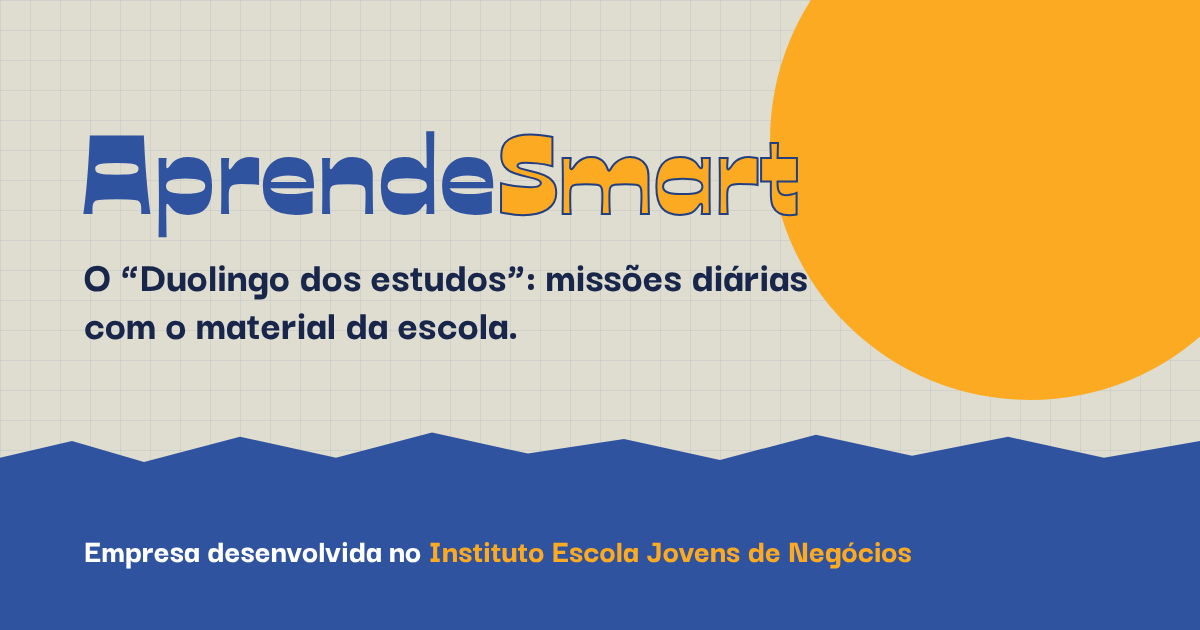
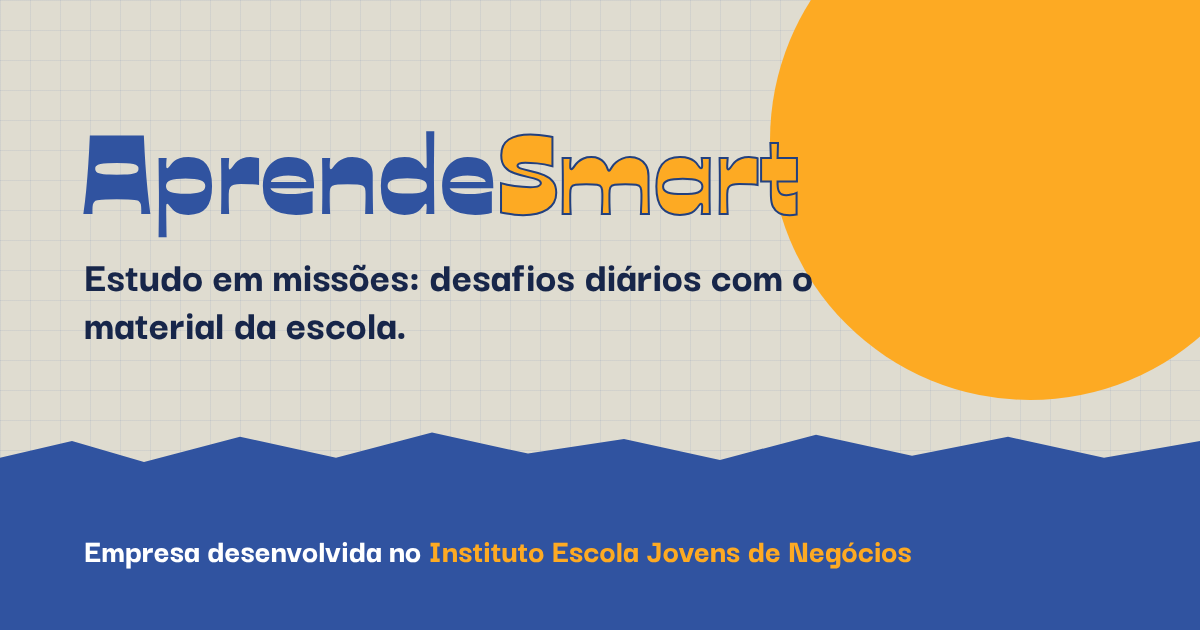
Remove Thomaz da equipe e troca referências ao Duolingo por conceito próprio
- 'Duolingo dos estudos' vira 'Estudo em missões' em textos, títulos e SEO
- 'ofensiva' vira 'sequência de dias'
- Seção 'Por que gamificar' passa a usar só evidência científica
- Equipe com Ana, Andryel Moura e Kaike

Claude-Session: https://claude.ai/code/session_01BquveXPgNbabZaiPgNXpNi

Changed region(s): [[0.0617, 0.4222, 0.6783, 0.5429]]

diff --git a/plataforma.html b/plataforma.html
@@ -4,7 +4,7 @@
   <meta charset="utf-8">
   <meta name="viewport" content="width=device-width, initial-scale=1">
   <title>Plataforma | AprendeSmart — missões diárias, gamificação e acompanhamento</title>
-  <meta name="description" content="O “Duolingo dos estudos”: missões diárias com o material da escola, ofensiva, XP, revisão programada e relatório para a família. Planos a partir de R$ 19,90/mês.">
+  <meta name="description" content="Estudo em missões: desafios diários com o material da escola, sequência, XP, revisão programada e relatório para a família. Planos a partir de R$ 19,90/mês.">
   <meta name="keywords" content="AprendeSmart, rotina de estudos, estudo gamificado, gamificação, missões diárias, organização de estudos, método de estudo, ensino médio, acompanhamento semanal, revisão, estudo ativo, Escola Jovens de Negócios">
   <meta name="author" content="AprendeSmart">
   <meta name="robots" content="index, follow, max-image-preview:large">
@@ -16,7 +16,7 @@
   <meta property="og:locale" content="pt_BR">
   <meta property="og:site_name" content="AprendeSmart">
   <meta property="og:title" content="Plataforma | AprendeSmart — missões diárias, gamificação e acompanhamento">
-  <meta property="og:description" content="O “Duolingo dos estudos”: missões diárias com o material da escola, ofensiva, XP, revisão programada e relatório para a família. Planos a partir de R$ 19,90/mês.">
+  <meta property="og:description" content="Estudo em missões: desafios diários com o material da escola, sequência, XP, revisão programada e relatório para a família. Planos a partir de R$ 19,90/mês.">
   <meta property="og:url" content="https://aprendesmart.cmkcogit.com.br/plataforma.html">
   <meta property="og:image" content="https://aprendesmart.cmkcogit.com.br/assets/img/og-aprendesmart.png">
   <meta property="og:image:width" content="1200">
@@ -24,7 +24,7 @@
   <meta property="og:image:alt" content="AprendeSmart — plataforma de acompanhamento semanal de estudos">
   <meta name="twitter:card" content="summary_large_image">
   <meta name="twitter:title" content="Plataforma | AprendeSmart — missões diárias, gamificação e acompanhamento">
-  <meta name="twitter:description" content="O “Duolingo dos estudos”: missões diárias com o material da escola, ofensiva, XP, revisão programada e relatório para a família. Planos a partir de R$ 19,90/mês.">
+  <meta name="twitter:description" content="Estudo em missões: desafios diários com o material da escola, sequência, XP, revisão programada e relatório para a família. Planos a partir de R$ 19,90/mês.">
   <meta name="twitter:image" content="https://aprendesmart.cmkcogit.com.br/assets/img/og-aprendesmart.png">
 
   <!-- Ícones -->
@@ -54,7 +54,7 @@
     "@type": "EducationalAudience",
     "educationalRole": "student"
   },
-  "description": "Plataforma gamificada de estudos: transforma o material escolar do aluno do ensino médio em missões diárias com ofensiva, XP e níveis, com acompanhamento semanal para a família.",
+  "description": "Plataforma gamificada de estudos: transforma o material escolar do aluno do ensino médio em missões diárias com sequência, XP e níveis, com acompanhamento semanal para a família.",
   "offers": [
     {
       "@type": "Offer",
@@ -147,8 +147,8 @@
         <ol><li><a href="index.html">Início</a></li><li><span aria-current="page">Plataforma</span></li></ol>
       </nav>
         <span class="etiqueta"><svg aria-hidden="true"><use href="#i-calendario"/></svg>A plataforma</span>
-        <h1>O “Duolingo dos estudos”, feito com o <span style="color:var(--amarelo);-webkit-text-stroke:1px var(--azul-escuro)">material da escola</span></h1>
-        <p class="lead">A AprendeSmart transforma o que o aluno já recebe na escola em missões diárias de 15 minutos, com ofensiva, XP e níveis, revisão programada dos erros e um relatório semanal para a família.</p>
+        <h1>Estudo em missões, feito com o <span style="color:var(--amarelo);-webkit-text-stroke:1px var(--azul-escuro)">material da escola</span></h1>
+        <p class="lead">A AprendeSmart transforma o que o aluno já recebe na escola em missões diárias de 15 minutos, com sequência, XP e níveis, revisão programada dos erros e um relatório semanal para a família.</p>
         <div class="hero__acoes">
           <a class="btn btn--azul" href="#como-funciona">Como funciona <svg aria-hidden="true"><use href="#i-seta"/></svg></a>
           <a class="btn btn--contorno" href="#planos">Planos previstos</a>
@@ -183,7 +183,7 @@
           <article class="cartao revelar">
             <div class="cartao__icone"><svg aria-hidden="true"><use href="#i-olho"/></svg></div>
             <h3>4. Transparência</h3>
-            <p>Ofensiva, XP e níveis deixam o progresso visível para o aluno, e um <strong>relatório semanal</strong> mostra à família a evolução e o que precisa de atenção.</p>
+            <p>Sequência, XP e níveis deixam o progresso visível para o aluno, e um <strong>relatório semanal</strong> mostra à família a evolução e o que precisa de atenção.</p>
           </article>
         </div>
       </div>
@@ -202,7 +202,7 @@
           <li class="revelar"><h3>Trilha da semana</h3><p>O material da escola vira missões diárias de 15 minutos, distribuídas pelos dias da semana.</p></li>
           <li class="revelar"><h3>Missão do dia</h3><p>Quizzes e exercícios curtos no lugar da releitura. Cada acerto vale XP.</p></li>
           <li class="revelar"><h3>Revisão programada</h3><p>Os erros voltam como desafio no momento certo, para fixar o que foi aprendido.</p></li>
-          <li class="revelar"><h3>Ofensiva e progresso</h3><p>Estudar todo dia mantém a ofensiva acesa, o aluno sobe de nível e a família recebe o relatório da semana.</p></li>
+          <li class="revelar"><h3>Sequência e progresso</h3><p>Estudar todo dia mantém a sequência viva, o aluno sobe de nível e a família recebe o relatório da semana.</p></li>
         </ol>
       </div>
     </section>
@@ -215,7 +215,7 @@
         </div>
         <div class="grade grade--3">
           <article class="cartao revelar"><div class="cartao__icone"><svg aria-hidden="true"><use href="#i-livro"/></svg></div><h3>Missões com o material da escola</h3><p>Apostilas, slides e anotações viram quizzes e desafios curtos. Sem precisar comprar mais conteúdo.</p></article>
-          <article class="cartao revelar"><div class="cartao__icone"><svg aria-hidden="true"><use href="#i-calendario"/></svg></div><h3>Ofensiva de dias</h3><p>Cada dia de estudo mantém a sequência acesa, o empurrão que transforma esforço em hábito.</p></article>
+          <article class="cartao revelar"><div class="cartao__icone"><svg aria-hidden="true"><use href="#i-calendario"/></svg></div><h3>Sequência de dias</h3><p>Cada dia de estudo mantém a sequência viva, o empurrão que transforma esforço em hábito.</p></article>
           <article class="cartao revelar"><div class="cartao__icone"><svg aria-hidden="true"><use href="#i-estrela"/></svg></div><h3>XP e níveis</h3><p>Cada missão concluída soma pontos e faz o aluno subir de nível, com metas que dá para enxergar.</p></article>
           <article class="cartao revelar"><div class="cartao__icone"><svg aria-hidden="true"><use href="#i-revisao"/></svg></div><h3>Revanche dos erros</h3><p>Os erros são guardados e voltam como desafio dias depois, para que não se repitam na prova.</p></article>
           <article class="cartao revelar"><div class="cartao__icone"><svg aria-hidden="true"><use href="#i-alvo"/></svg></div><h3>Foco no que importa</h3><p>Prioridades definidas pelas dificuldades do aluno e pelas próximas avaliações.</p></article>
@@ -229,15 +229,15 @@
       <div class="container">
         <div class="cabecalho-secao revelar">
           <span class="etiqueta"><svg aria-hidden="true"><use href="#i-estrela"/></svg>Por que gamificar</span>
-          <h2 id="gami-titulo">A mecânica que já provou criar hábito</h2>
-          <p class="lead">O Duolingo mostrou que lições curtas, ofensiva e pontos fazem milhões de pessoas voltarem todos os dias. A pesquisa em educação confirma que a gamificação ajuda a aprender.</p>
+          <h2 id="gami-titulo">O que a ciência diz</h2>
+          <p class="lead">Elementos de jogo, como pontos, níveis e desafios, aumentam a motivação e o aprendizado. E o autoteste, base das nossas missões, é uma das técnicas de estudo com mais evidência.</p>
         </div>
         <div class="grade grade--3">
-          <article class="cartao revelar"><span class="numero">58,7 mi</span><h3>usuários por dia</h3><p>usam o Duolingo diariamente (2º trimestre de 2026).</p></article>
-          <article class="cartao revelar"><span class="numero">84%</span><h3>voltam no dia seguinte</h3><p>taxa recorde de retorno diário dos usuários do Duolingo.</p></article>
-          <article class="cartao revelar"><span class="numero">+0,49</span><h3>efeito no aprendizado</h3><p>tamanho de efeito positivo da gamificação em meta-análise de estudos educacionais (Sailer &amp; Homner, 2020).</p></article>
+          <article class="cartao revelar"><span class="numero">+0,49</span><h3>efeito no aprendizado</h3><p>tamanho de efeito positivo da gamificação em meta-análise de estudos educacionais.</p></article>
+          <article class="cartao revelar"><span class="numero">+0,36</span><h3>efeito na motivação</h3><p>alunos de ambientes gamificados se mostram mais motivados a aprender.</p></article>
+          <article class="cartao revelar"><span class="numero">Alta</span><h3>utilidade do autoteste</h3><p>praticar lembrando o conteúdo supera reler e grifar, segundo a maior revisão sobre técnicas de estudo.</p></article>
         </div>
-        <p class="fonte-dado">Duolingo não tem relação com a AprendeSmart; a comparação serve para explicar o modelo.</p>
+        <p class="fonte-dado">Fontes: Sailer &amp; Homner (2020), Educational Psychology Review; Dunlosky et al. (2013), Psychological Science in the Public Interest.</p>
       </div>
     </section>
 
@@ -259,7 +259,7 @@
               <tr><th scope="row">Por onde começar</th><td>O aluno continua sem saber como organizar a própria semana</td><td>O próprio aluno precisa configurar matérias e tópicos</td><td class="destaque">A plataforma indica o ponto de partida e as prioridades</td></tr>
               <tr><th scope="row">Material usado</th><td>Conteúdo próprio da plataforma</td><td>O que o aluno cadastrar manualmente</td><td class="destaque">Os materiais que o aluno já recebe na escola</td></tr>
               <tr><th scope="row">Esforço de uso</th><td>Grande volume de conteúdo para escolher</td><td>Fricção para configurar e manter</td><td class="destaque">Missões diárias de 15 minutos</td></tr>
-              <tr><th scope="row">Hábito e motivação</th><td>Depende da força de vontade do aluno</td><td>Pontos isolados, sem rotina guiada</td><td class="destaque">Ofensiva, XP e níveis ligados à rotina da escola</td></tr>
+              <tr><th scope="row">Hábito e motivação</th><td>Depende da força de vontade do aluno</td><td>Pontos isolados, sem rotina guiada</td><td class="destaque">Sequência, XP e níveis ligados à rotina da escola</td></tr>
               <tr><th scope="row">Família</th><td>Pouco ou nenhum acompanhamento</td><td>Não acompanha a família no processo</td><td class="destaque">Relatório semanal do progresso</td></tr>
             </tbody>
           </table>
@@ -282,7 +282,7 @@
             <p class="plano__preco">R$ 19,90 <small>/mês</small></p>
             <ul class="lista-check">
               <li>Missões diárias com o material da escola</li>
-              <li>Ofensiva, XP e níveis</li>
+              <li>Sequência, XP e níveis</li>
               <li>Quizzes e revisão programada dos erros</li>
               <li>Painel de progresso do aluno</li>
             </ul>
@@ -345,7 +345,7 @@
             <svg class="marca__icone" aria-hidden="true"><use href="#i-logo"/></svg>
             <span class="marca__nome">Aprende<span>Smart</span></span>
           </a>
-          <p>O “Duolingo dos estudos”: missões diárias e gamificadas, feitas com o material que o aluno já recebe na escola.</p>
+          <p>Estudo em missões: tarefas diárias e gamificadas, feitas com o material que o aluno já recebe na escola.</p>
           <p>Empresa desenvolvida no <strong>Instituto Escola Jovens de Negócios</strong>.</p>
         </div>
         <nav aria-label="Mapa do site">

diff --git a/index.html b/index.html
@@ -3,8 +3,8 @@
 <head>
   <meta charset="utf-8">
   <meta name="viewport" content="width=device-width, initial-scale=1">
-  <title>AprendeSmart | O “Duolingo dos estudos” para o ensino médio</title>
-  <meta name="description" content="A AprendeSmart transforma o material da escola em missões diárias gamificadas, com ofensiva, XP e níveis, para estudantes do ensino médio criarem o hábito de estudar.">
+  <title>AprendeSmart | Estudo em missões para o ensino médio</title>
+  <meta name="description" content="A AprendeSmart transforma o material da escola em missões diárias gamificadas, com sequência, XP e níveis, para estudantes do ensino médio criarem o hábito de estudar.">
   <meta name="keywords" content="AprendeSmart, rotina de estudos, estudo gamificado, gamificação, missões diárias, organização de estudos, método de estudo, ensino médio, acompanhamento semanal, revisão, estudo ativo, Escola Jovens de Negócios">
   <meta name="author" content="AprendeSmart">
   <meta name="robots" content="index, follow, max-image-preview:large">
@@ -15,16 +15,16 @@
   <meta property="og:type" content="website">
   <meta property="og:locale" content="pt_BR">
   <meta property="og:site_name" content="AprendeSmart">
-  <meta property="og:title" content="AprendeSmart | O “Duolingo dos estudos” para o ensino médio">
-  <meta property="og:description" content="A AprendeSmart transforma o material da escola em missões diárias gamificadas, com ofensiva, XP e níveis, para estudantes do ensino médio criarem o hábito de estudar.">
+  <meta property="og:title" content="AprendeSmart | Estudo em missões para o ensino médio">
+  <meta property="og:description" content="A AprendeSmart transforma o material da escola em missões diárias gamificadas, com sequência, XP e níveis, para estudantes do ensino médio criarem o hábito de estudar.">
   <meta property="og:url" content="https://aprendesmart.cmkcogit.com.br/">
   <meta property="og:image" content="https://aprendesmart.cmkcogit.com.br/assets/img/og-aprendesmart.png">
   <meta property="og:image:width" content="1200">
   <meta property="og:image:height" content="630">
   <meta property="og:image:alt" content="AprendeSmart — plataforma de acompanhamento semanal de estudos">
   <meta name="twitter:card" content="summary_large_image">
-  <meta name="twitter:title" content="AprendeSmart | O “Duolingo dos estudos” para o ensino médio">
-  <meta name="twitter:description" content="A AprendeSmart transforma o material da escola em missões diárias gamificadas, com ofensiva, XP e níveis, para estudantes do ensino médio criarem o hábito de estudar.">
+  <meta name="twitter:title" content="AprendeSmart | Estudo em missões para o ensino médio">
+  <meta name="twitter:description" content="A AprendeSmart transforma o material da escola em missões diárias gamificadas, com sequência, XP e níveis, para estudantes do ensino médio criarem o hábito de estudar.">
   <meta name="twitter:image" content="https://aprendesmart.cmkcogit.com.br/assets/img/og-aprendesmart.png">
 
   <!-- Ícones -->
@@ -65,10 +65,6 @@
     {
       "@type": "Person",
       "name": "Kaike"
-    },
-    {
-      "@type": "Person",
-      "name": "Thomaz"
     }
   ]
 }
@@ -143,7 +139,7 @@
             <span>Empresa desenvolvida no <b>Instituto Escola Jovens de Negócios</b></span>
           </a>
           <h1>Estudar vira <span>hábito</span>, como num jogo.</h1>
-          <p class="lead">A AprendeSmart é o <strong>“Duolingo dos estudos”</strong>: transforma o material que o aluno já recebe da escola em <strong>missões diárias de 15 minutos</strong>, com ofensiva de dias, XP e níveis — e um relatório semanal para a família.</p>
+          <p class="lead">A AprendeSmart faz o <strong>estudo virar um jogo de missões</strong>: transforma o material que o aluno já recebe da escola em <strong>missões diárias de 15 minutos</strong>, com sequência de dias, XP e níveis — e um relatório semanal para a família.</p>
           <div class="hero__acoes">
             <a class="btn btn--azul" href="plataforma.html">Conheça a plataforma <svg aria-hidden="true"><use href="#i-seta"/></svg></a>
             <a class="btn btn--contorno" href="sobre.html">Por que existimos</a>
@@ -152,10 +148,10 @@
         <div class="hero__visual" aria-hidden="true">
           <div class="hero__sol"></div>
           <span class="adesivo adesivo--1">Missões</span>
-          <span class="adesivo adesivo--2">Ofensiva</span>
+          <span class="adesivo adesivo--2">Sequência</span>
           <div class="hero__painel">
             <h2>Missões da semana</h2>
-            <small>Ofensiva: 3 dias seguidos · 340 XP · Nível 4</small>
+            <small>Sequência: 3 dias · 340 XP · Nível 4</small>
             <ul class="semana">
               <li><span class="semana__dia">SEG</span> Quiz de Biologia: cap. 4 <span class="semana__xp">+20 XP</span><span class="semana__check ok"><svg aria-hidden="true"><use href="#i-check"/></svg></span></li>
               <li><span class="semana__dia">TER</span> Desafio: 10 questões de funções <span class="semana__xp">+30 XP</span><span class="semana__check ok"><svg aria-hidden="true"><use href="#i-check"/></svg></span></li>
@@ -206,8 +202,8 @@
       <div class="container">
         <div class="cabecalho-secao revelar">
           <span class="etiqueta"><svg aria-hidden="true"><use href="#i-lampada"/></svg>A solução</span>
-          <h2 id="solucao-titulo">O “Duolingo dos estudos”</h2>
-          <p class="lead">O Duolingo provou que lições curtas, ofensiva e pontos criam hábito. A AprendeSmart usa a mesma lógica com o <strong>material que o aluno já recebe da escola</strong>, apoiada em quatro pilares.</p>
+          <h2 id="solucao-titulo">Estudo em missões</h2>
+          <p class="lead">Desafios curtos, sequência de dias e pontos são a mecânica que os jogos usam para criar hábito. A AprendeSmart aplica essa lógica com o <strong>material que o aluno já recebe da escola</strong>, apoiada em quatro pilares.</p>
         </div>
         <div class="grade grade--4">
           <article class="cartao revelar">
@@ -228,7 +224,7 @@
           <article class="cartao cartao--azul revelar">
             <div class="cartao__icone"><svg aria-hidden="true"><use href="#i-olho"/></svg></div>
             <h3>Transparência</h3>
-            <p>Ofensiva, XP e níveis para o aluno; relatório semanal para a família.</p>
+            <p>Sequência, XP e níveis para o aluno; relatório semanal para a família.</p>
           </article>
         </div>
         <p class="mt-2 centro"><a class="btn btn--azul" href="plataforma.html#pilares">Ver os pilares em detalhe <svg aria-hidden="true"><use href="#i-seta"/></svg></a></p>
@@ -247,7 +243,7 @@
           <li class="revelar"><h3>Trilha da semana</h3><p>O material da escola vira missões diárias de 15 minutos.</p></li>
           <li class="revelar"><h3>Missão do dia</h3><p>Quizzes e exercícios no lugar da releitura. Cada acerto vale XP.</p></li>
           <li class="revelar"><h3>Revisão programada</h3><p>Os erros voltam como desafio no momento certo.</p></li>
-          <li class="revelar"><h3>Ofensiva e progresso</h3><p>Dias seguidos, níveis e relatório semanal para a família.</p></li>
+          <li class="revelar"><h3>Sequência e progresso</h3><p>Dias seguidos, níveis e relatório semanal para a família.</p></li>
         </ol>
       </div>
     </section>
@@ -263,7 +259,7 @@
         </div>
         <ul class="grade revelar" style="list-style:none;padding:0;margin:0">
           <li class="cartao bilhete"><h3>Uso do material escolar</h3><p>As missões nascem do conteúdo da escola do aluno, não de um curso genérico.</p></li>
-          <li class="cartao bilhete"><h3>Gamificação</h3><p>Missões curtas, ofensiva e XP criam o hábito, como no Duolingo.</p></li>
+          <li class="cartao bilhete"><h3>Gamificação</h3><p>Missões curtas, sequência e XP criam o hábito, como num jogo.</p></li>
           <li class="cartao bilhete"><h3>Família junto</h3><p>Relatório semanal mostra a evolução e o que precisa de atenção.</p></li>
         </ul>
       </div>
@@ -332,7 +328,7 @@
             <svg class="marca__icone" aria-hidden="true"><use href="#i-logo"/></svg>
             <span class="marca__nome">Aprende<span>Smart</span></span>
           </a>
-          <p>O “Duolingo dos estudos”: missões diárias e gamificadas, feitas com o material que o aluno já recebe na escola.</p>
+          <p>Estudo em missões: tarefas diárias e gamificadas, feitas com o material que o aluno já recebe na escola.</p>
           <p>Empresa desenvolvida no <strong>Instituto Escola Jovens de Negócios</strong>.</p>
         </div>
         <nav aria-label="Mapa do site">

diff --git a/contato.html b/contato.html
@@ -4,7 +4,7 @@
   <meta charset="utf-8">
   <meta name="viewport" content="width=device-width, initial-scale=1">
   <title>Contato | AprendeSmart — lista de interesse e dúvidas</title>
-  <meta name="description" content="Fale com a AprendeSmart, entre na lista de interesse do “Duolingo dos estudos” e veja as perguntas frequentes.">
+  <meta name="description" content="Fale com a AprendeSmart, entre na lista de interesse da AprendeSmart e veja as perguntas frequentes.">
   <meta name="keywords" content="AprendeSmart, rotina de estudos, estudo gamificado, gamificação, missões diárias, organização de estudos, método de estudo, ensino médio, acompanhamento semanal, revisão, estudo ativo, Escola Jovens de Negócios">
   <meta name="author" content="AprendeSmart">
   <meta name="robots" content="index, follow, max-image-preview:large">
@@ -16,7 +16,7 @@
   <meta property="og:locale" content="pt_BR">
   <meta property="og:site_name" content="AprendeSmart">
   <meta property="og:title" content="Contato | AprendeSmart — lista de interesse e dúvidas">
-  <meta property="og:description" content="Fale com a AprendeSmart, entre na lista de interesse do “Duolingo dos estudos” e veja as perguntas frequentes.">
+  <meta property="og:description" content="Fale com a AprendeSmart, entre na lista de interesse da AprendeSmart e veja as perguntas frequentes.">
   <meta property="og:url" content="https://aprendesmart.cmkcogit.com.br/contato.html">
   <meta property="og:image" content="https://aprendesmart.cmkcogit.com.br/assets/img/og-aprendesmart.png">
   <meta property="og:image:width" content="1200">
@@ -24,7 +24,7 @@
   <meta property="og:image:alt" content="AprendeSmart — plataforma de acompanhamento semanal de estudos">
   <meta name="twitter:card" content="summary_large_image">
   <meta name="twitter:title" content="Contato | AprendeSmart — lista de interesse e dúvidas">
-  <meta name="twitter:description" content="Fale com a AprendeSmart, entre na lista de interesse do “Duolingo dos estudos” e veja as perguntas frequentes.">
+  <meta name="twitter:description" content="Fale com a AprendeSmart, entre na lista de interesse da AprendeSmart e veja as perguntas frequentes.">
   <meta name="twitter:image" content="https://aprendesmart.cmkcogit.com.br/assets/img/og-aprendesmart.png">
 
   <!-- Ícones -->
@@ -78,7 +78,7 @@
       "name": "Como funciona a gamificação?",
       "acceptedAnswer": {
         "@type": "Answer",
-        "text": "Como no Duolingo: o aluno faz missões diárias de cerca de 15 minutos, ganha XP a cada acerto, mantém uma ofensiva de dias seguidos e sobe de nível. A diferença é que as missões são feitas com o material da escola dele."
+        "text": "Como num jogo: o aluno faz missões diárias de cerca de 15 minutos, ganha XP a cada acerto, mantém uma sequência de dias seguidos e sobe de nível. A diferença é que as missões são feitas com o material da escola dele."
       }
     },
     {
@@ -102,7 +102,7 @@
       "name": "Como a família acompanha o progresso?",
       "acceptedAnswer": {
         "@type": "Answer",
-        "text": "No plano Família, os responsáveis recebem um relatório semanal com a ofensiva, as missões concluídas e o que ainda precisa de atenção."
+        "text": "No plano Família, os responsáveis recebem um relatório semanal com a sequência, as missões concluídas e o que ainda precisa de atenção."
       }
     },
     {
@@ -247,7 +247,7 @@
           <h2>Uma empresa do Instituto Escola Jovens de Negócios</h2>
           <p class="lead">A AprendeSmart é desenvolvida por alunos do Instituto Escola Jovens de Negócios, como parte do programa de criação de empresas.</p>
           <div class="canal"><span class="canal__icone"><svg aria-hidden="true"><use href="#i-escola"/></svg></span><div><h3>Instituição</h3><p>Instituto Escola Jovens de Negócios</p></div></div>
-          <div class="canal"><span class="canal__icone"><svg aria-hidden="true"><use href="#i-familia"/></svg></span><div><h3>Equipe</h3><p>Ana, Andryel Moura, Kaike e Thomaz</p></div></div>
+          <div class="canal"><span class="canal__icone"><svg aria-hidden="true"><use href="#i-familia"/></svg></span><div><h3>Equipe</h3><p>Ana, Andryel Moura e Kaike</p></div></div>
           <div class="canal"><span class="canal__icone"><svg aria-hidden="true"><use href="#i-quadro"/></svg></span><div><h3>Modelo de negócios</h3><p><a href="https://canva.link/o84y1xw00mshqzb" target="_blank" rel="noopener">Ver o Canvas completo</a> (somente visualização)</p></div></div>
         </div>
       </div>
@@ -271,7 +271,7 @@
           </details>
           <details class="revelar">
             <summary>Como funciona a gamificação?</summary>
-            <div><p>Como no Duolingo: o aluno faz missões diárias de cerca de 15 minutos, ganha XP a cada acerto, mantém uma ofensiva de dias seguidos e sobe de nível. A diferença é que as missões são feitas com o material da escola dele.</p></div>
+            <div><p>Como num jogo: o aluno faz missões diárias de cerca de 15 minutos, ganha XP a cada acerto, mantém uma sequência de dias seguidos e sobe de nível. A diferença é que as missões são feitas com o material da escola dele.</p></div>
           </details>
           <details class="revelar">
             <summary>Para quem a AprendeSmart é indicada?</summary>
@@ -283,7 +283,7 @@
           </details>
           <details class="revelar">
             <summary>Como a família acompanha o progresso?</summary>
-            <div><p>No plano Família, os responsáveis recebem um relatório semanal com a ofensiva, as missões concluídas e o que ainda precisa de atenção.</p></div>
+            <div><p>No plano Família, os responsáveis recebem um relatório semanal com a sequência, as missões concluídas e o que ainda precisa de atenção.</p></div>
           </details>
           <details class="revelar">
             <summary>Quanto vai custar?</summary>
@@ -306,7 +306,7 @@
             <svg class="marca__icone" aria-hidden="true"><use href="#i-logo"/></svg>
             <span class="marca__nome">Aprende<span>Smart</span></span>
           </a>
-          <p>O “Duolingo dos estudos”: missões diárias e gamificadas, feitas com o material que o aluno já recebe na escola.</p>
+          <p>Estudo em missões: tarefas diárias e gamificadas, feitas com o material que o aluno já recebe na escola.</p>
           <p>Empresa desenvolvida no <strong>Instituto Escola Jovens de Negócios</strong>.</p>
         </div>
         <nav aria-label="Mapa do site">

diff --git a/sobre.html b/sobre.html
@@ -219,7 +219,7 @@
         <div class="funil revelar">
           <div class="funil__item"><span class="funil__sigla">TAM</span><div><div class="funil__valor">7,8 milhões</div><div class="funil__desc">de estudantes do ensino médio no Brasil (Censo Escolar 2024)</div></div></div>
           <div class="funil__item"><span class="funil__sigla">SAM</span><div><div class="funil__valor">2,3 milhões</div><div class="funil__desc">de alunos conectados — o público real da plataforma</div></div></div>
-          <div class="funil__item"><span class="funil__sigla">SOM</span><div><div class="funil__valor">1.000 assinantes</div><div class="funil__desc">no primeiro ano (0,04% do SAM), entre R$ 239 mil e R$ 359 mil por ano</div></div></div>
+          <div class="funil__item"><span class="funil__sigla">SOM</span><div><div class="funil__valor">1.000 assinantes</div><div class="funil__desc">no primeiro ano (0,04% do SAM)</div></div></div>
         </div>
       </div>
     </section>
@@ -231,11 +231,10 @@
           <h2 id="equipe-titulo">Quem faz a AprendeSmart</h2>
           <p class="lead">Alunos do Instituto Escola Jovens de Negócios que decidiram transformar um problema comum em uma empresa.</p>
         </div>
-        <div class="grade grade--4">
+        <div class="grade grade--3" style="max-width:1000px;margin-inline:auto">
           <div class="cartao membro revelar"><div class="membro__avatar" aria-hidden="true">A</div><h3>Ana</h3><p>Cofundadora</p></div>
           <div class="cartao membro revelar"><div class="membro__avatar" aria-hidden="true">AM</div><h3>Andryel Moura</h3><p>Cofundador</p></div>
           <div class="cartao membro revelar"><div class="membro__avatar" aria-hidden="true">K</div><h3>Kaike</h3><p>Cofundador</p></div>
-          <div class="cartao membro revelar"><div class="membro__avatar" aria-hidden="true">T</div><h3>Thomaz</h3><p>Cofundador</p></div>
         </div>
       </div>
     </section>
@@ -261,7 +260,7 @@
             <svg class="marca__icone" aria-hidden="true"><use href="#i-logo"/></svg>
             <span class="marca__nome">Aprende<span>Smart</span></span>
           </a>
-          <p>O “Duolingo dos estudos”: missões diárias e gamificadas, feitas com o material que o aluno já recebe na escola.</p>
+          <p>Estudo em missões: tarefas diárias e gamificadas, feitas com o material que o aluno já recebe na escola.</p>
           <p>Empresa desenvolvida no <strong>Instituto Escola Jovens de Negócios</strong>.</p>
         </div>
         <nav aria-label="Mapa do site">

diff --git a/404.html b/404.html
@@ -106,7 +106,7 @@
             <svg class="marca__icone" aria-hidden="true"><use href="#i-logo"/></svg>
             <span class="marca__nome">Aprende<span>Smart</span></span>
           </a>
-          <p>O “Duolingo dos estudos”: missões diárias e gamificadas, feitas com o material que o aluno já recebe na escola.</p>
+          <p>Estudo em missões: tarefas diárias e gamificadas, feitas com o material que o aluno já recebe na escola.</p>
           <p>Empresa desenvolvida no <strong>Instituto Escola Jovens de Negócios</strong>.</p>
         </div>
         <nav aria-label="Mapa do site">
